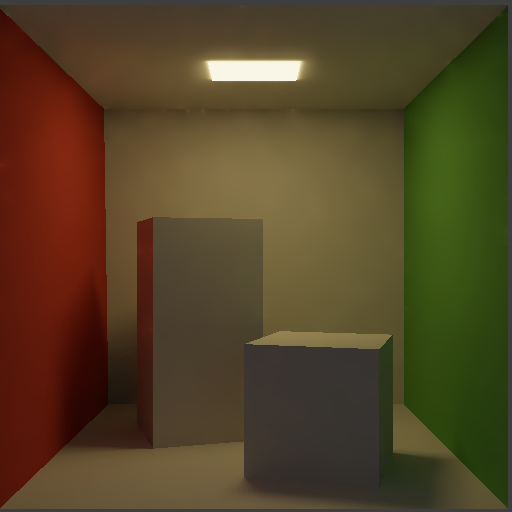
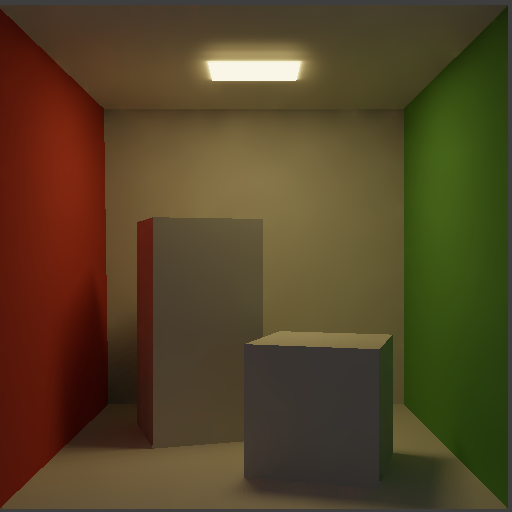
Example 41: revert the finer GI grid -- it traded a soft crease for stepped silhouettes
fb9462a moved the default to scale 3 / 20 paths on the strength of a crease
profile, an RMSE and a ceiling patch, all three of which improved. Looking at
the render, the edges are worse, and they are: the ceiling/side-wall diagonal
comes out stair-stepped and the vertical corner grows a bright fringe. Back to
scale 4 / 40 paths, the configuration that was actually reviewed.

The attribution, since I changed two things at once: it is the grid, not the
paths. Scale 3 shows the stepping at 20 AND 40 paths; scale 4 at 20 paths has
a clean diagonal; scale 2 steps too, so it is not the non-power-of-two grid
either. What is really going on is that the indirect is reconstructed per grid
block, and scale 4's softness was the only thing hiding that along a diagonal
edge -- make the grid finer and the block structure resolves well enough to
see. So the trade is a soft crease against a stepped silhouette, and no
aggregate metric in implementation.md reports the second one. That is the
lesson worth keeping, and finding 21 now records it as what it is rather than
as the improvement it was written up as.

The diagnosis half of that finding still holds and is unchanged: the soft
crease is grid resolution and not the denoise -- switching the denoise off
entirely makes the flat approach WIDER, 8 rows against 6, while halving the
grid block takes it to 2. A gradient fit in the upsample was tried and
measured as a no-op, because the grid's values approaching the corner are
[…]

Changed region(s): [[0.375, 0.0625, 0.5938, 0.125]]

diff --git a/examples/41_multibounce/solver.hpp b/examples/41_multibounce/solver.hpp
@@ -55,16 +55,13 @@ struct SolveConfig {
     uint32_t bounces = 3;          // camera levels; 1 == direct only
     // GI grid = framebuffer / scale.
     //
-    // 3, not 4, and the reason is finding 21: this is the knob that resolves a
-    // CREASE. The contact darkening where two surfaces meet is two or three
-    // pixels wide, so at scale 4 the grid's nearest sample to a corner sits at a
-    // block centre two pixels away and the upsample has nothing closer to
-    // interpolate toward -- it clamps, and the ceiling/wall line comes out as a
-    // flat shelf and then a cliff where a path trace shows a smooth ramp.
-    // Nothing downstream can recover it; the feature is below the grid's
-    // Nyquist. Measured with the denoise switched off entirely, the shelf is
-    // WIDER, which is what rules the denoise out as the cause.
-    uint32_t scale   = 3;
+    // 4, and finding 21 is the record of trying to make it finer and putting it
+    // back. A finer grid does resolve the crease it was supposed to -- and it
+    // makes SILHOUETTES worse, because scale 4's softness was the only thing
+    // hiding the upsample's per-block structure along a diagonal edge. Trading a
+    // soft crease for a stepped silhouette is a bad trade, and it is one that no
+    // aggregate metric in this file reports.
+    uint32_t scale   = 4;
     uint32_t budget  = 4096;       // level-1 cameras per frame
 
     // The resolution ladder of section 6.2 / 4.1: near cameras get the
@@ -112,23 +109,21 @@ struct SolveConfig {
     // representative's visibility. That one is deterministic, which is why every
     // gate runs on it, and it is the doc's variant A as written.
     //
-    // 20, because PATHS SATURATE AND GRID PIXELS DO NOT (finding 21). At scale 3,
-    // 20 paths and 32 paths score the same RMSE to four digits and the same
-    // whole-image noise, for 58% more cameras -- the hemisphere is adequately
-    // sampled well before 20 and everything past it is spent on a quantity that
-    // has stopped moving. Grid resolution has not stopped moving, because it is
-    // what resolves creases, so the budget goes there instead.
+    // 40, which is not a round number and is not meant to be: at the three-bounce
+    // cap it is the split that costs EXACTLY what the branching tree costs. The
+    // tree spawns 16 then 4, so a primary hit carries 1 + 16 + 64 = 81 cameras;
+    // a path split of S carries 1 + 2S, and 1 + 2*40 = 81. Same cameras, same
+    // texels, same triangle-rasters, to the unit -- which is the comparison
+    // finding 20 defaults on, and at equal cost the path estimator wins on every
+    // axis that is not a tie.
     //
-    // Together with scale 3 that is 1.20e6 cameras a sweep against the 1.33e6
-    // the old scale-4/40-path default used: fewer cameras, RMSE 0.0375 against
-    // 0.0402, and a crease profile that matches the path-traced reference.
-    //
-    // 41 is also, coincidentally, close to the split that costs exactly what the
-    // branching tree costs at this depth (the tree carries 1 + 16 + 64 = 81
-    // cameras per primary hit, a split of S carries 1 + 2S, so S = 40 ties at
-    // scale 4). That comparison is in finding 20 and still runs with
-    // MBG_SCALE=4 MBG_PATHS=40 MBG_PATHS=0; it is not what this default is for.
-    uint32_t  paths = 20;
+    // PATHS SATURATE WELL BELOW THIS. 40, 64 and 256 score the same RMSE to four
+    // digits, and 20 scores 0.0403 against 40's 0.0402 for HALF the cameras with
+    // the same whole-image noise (3.86 against 3.88). MBG_PATHS=20 is therefore
+    // a free 2x on the solve if the equal-cost comparison is not what is wanted;
+    // it is not the default only because the default is the configuration the
+    // branching estimator is measured against.
+    uint32_t  paths = 40;
     // Russian roulette threshold on the path throughput (the running product of
     // what each bounce reflects, near enough). Below it a path survives with
     // probability throughput/threshold and is divided by that probability, so

diff --git a/examples/41_multibounce/main.cpp b/examples/41_multibounce/main.cpp
@@ -64,7 +64,7 @@
 //   MBG_MODEL=path.glb      CornellBoxOriginal.glb; the references only match it
 //   MBG_BOUNCES=3           camera levels; 1 == direct only (capped at
 //                           kMaxLevels, currently 3)
-//   MBG_PATHS=20            single-sample continuation: split this many ways at
+//   MBG_PATHS=40            single-sample continuation: split this many ways at
 //                           the primary hit, branch factor 1 below it, so cost
 //                           is paths x bounces. 0 = the branching tile estimator
 //   MBG_RR=0.15             Russian-roulette threshold on path throughput; 0 off
@@ -80,8 +80,7 @@
 //   MBG_JITTER=1            rotate each receiver's tangent frame (decorrelate)
 //   MBG_FILTER=2            a-trous denoise iterations over the GI grid
 //   MBG_FILTER_R=2          taps per side for that filter
-//   MBG_SCALE=3             GI grid = framebuffer / scale; 1 == one camera/pixel.
-//                           The knob that resolves creases -- see finding 21
+//   MBG_SCALE=4             GI grid = framebuffer / scale; 1 == one camera/pixel
 //   MBG_BUDGET=4096         level-1 cameras per frame
 //   MBG_RES=16              level-1 target edge; MBG_RES2/3 for deeper levels
 //   MBG_BLOCK=8             spawn tile edge; 1 == a child per texel
@@ -630,7 +629,7 @@ int main() {
                     int pa = int(cfg.paths);
                     bool path_mode = pa != 0;
                     if (ImGui::Checkbox("Single-sample continuation", &path_mode))
-                        cfg.paths = path_mode ? 20u : 0u;
+                        cfg.paths = path_mode ? 40u : 0u;
                     if (cfg.paths) {
                         pa = int(cfg.paths);
                         if (ImGui::SliderInt("Paths (split at primary hit)", &pa, 1, 256))

diff --git a/examples/41_multibounce/implementation.md b/examples/41_multibounce/implementation.md
@@ -36,10 +36,10 @@ reload sees it.
 | `MBG_GATE=all` or a comma list | run the analytic gates and exit. Names: `quad`, `closed`, `rect`, `occ`, `oracle`, `texeldir`, `series`, `paths`. `MBG_GATE_VERBOSE=1` prints each rasterizer/oracle disagreement |
 | `MBG_MODEL=path.glb` | model to load (default `CornellBoxOriginal.glb`). The two reference PNGs only match that one |
 | `MBG_BOUNCES=n` | camera levels, 1–`kMaxLevels`. **3 is the cap** (solver.hpp); 1 = direct only |
-| `MBG_PATHS=n` | **single-sample continuation**: split this many ways at the primary hit, branch factor 1 below it, so the cost is `paths × bounces` instead of `K^bounces` (default 20; paths saturate well before that, see finding 21). `0` selects the branching tile estimator; see finding 20 |
+| `MBG_PATHS=n` | **single-sample continuation**: split this many ways at the primary hit, branch factor 1 below it, so the cost is `paths × bounces` instead of `K^bounces` (default 40, the split that costs exactly what the branching tree costs at 3 bounces; 20 measures the same for half the cameras, see finding 21). `0` selects the branching tile estimator; see finding 20 |
 | `MBG_RR=f` | Russian-roulette threshold on path throughput (default 0.15). Below it a path survives with probability `throughput/f` and is divided by it. 0 disables |
 | `MBG_IMPORTANCE=0\|1` | draw the continuation from the micro-buffer's radiance rather than from `cos × dΩ × albedo` alone (default 1) |
-| `MBG_SCALE=n` | GI grid = framebuffer / n (default 3). **1 = one camera per pixel**, the doc's correctness reference. The knob that resolves creases — see finding 21 |
+| `MBG_SCALE=n` | GI grid = framebuffer / n (default 4). **1 = one camera per pixel**, the doc's correctness reference. Finer resolves creases and costs silhouettes — see finding 21 |
 | `MBG_BUDGET=n` | level-1 cameras per frame. The sweep is split into `ceil(pixels/budget)` chunks; the budget is clamped down if the camera tree would exceed 512 MB |
 | `MBG_RES=n` / `MBG_RES2/3/4=n` | hemi-octahedral target edge per level, 2–32 (defaults 16/8/8/8) |
 | `MBG_JITTER=0\|1` | rotate each receiver's tangent frame by a hash of its position (default 1). **Load-bearing**; see finding 14 |
@@ -231,13 +231,13 @@ thing to scale.
 
 ### The default configuration
 
-`MBG_BOUNCES=3`, `MBG_SCALE=3` (GI 171×171), 20 paths, targets 16/8/8, analytic
+`MBG_BOUNCES=3`, `MBG_SCALE=4` (GI 128×128), 40 paths, targets 16/8/8, analytic
 direct with an 8×8 light view per pixel, jitter + denoise on, no environment.
 
 | | RMSE | roughness vs reference | cameras/sweep |
 |---|---|---|---|
-| 1 bounce vs the direct reference | **0.0430** | 0.91× | 2.9e4 + 262k direct |
-| 3 bounces vs the full-GI reference (sky 0.05) | **0.0375** | 0.75× | 1.2e6 + 262k direct |
+| 1 bounce vs the direct reference | **0.0430** | 0.91× | 1.6e4 + 262k direct |
+| 3 bounces vs the full-GI reference (sky 0.05) | **0.0402** | 0.67× | 1.3e6 + 262k direct |
 
 At one bounce there is no recursion and the two estimators are the same code.
 
@@ -277,17 +277,16 @@ spread is under 1% and the comparisons are sound; *across* batches the clock
 means nothing. The camera and texel counts are exact and hardware independent,
 and they are the thing to scale with.
 
-**At the shipped configuration** — 3 bounces, 20 paths, GI grid 171×171 — one
-complete sweep. (The rows below it are the scale-4 batch that finding 20 and
-finding 21 compare against, kept because they are one env var apart.)
+**At the shipped configuration** — 3 bounces, 40 paths, GI grid 128×128 — one
+complete sweep, three runs in one batch, spread under 1%:
 
 | | time | work |
 |---|---|---|
-| **indirect, 3 bounces, scale 3, path 20** | **55.5 s** | 1.20e6 cameras, 7.9e7 texels |
-| indirect, 3 bounces, scale 4, path 40 | 51.4 s | 1.33e6 cameras, 8.8e7 texels, 4.2e7 triangle-rasters |
+| **indirect, 3 bounces, path 40** | **51.4 s** | 1.33e6 cameras, 8.8e7 texels, 4.2e7 triangle-rasters |
+| indirect, 3 bounces, path 20 (same quality) | ~26 s | 0.67e6 cameras |
 | indirect, 3 bounces, branching | 52.5 s | 1.33e6 cameras, 8.8e7 texels |
 | indirect, 3 bounces, path 64 | 81.7 s | 2.11e6 cameras, 1.38e8 texels |
-| indirect, 3 bounces, **with the sun** | 61 s | + one cone raster per camera |
+| indirect, 3 bounces, **with the sun** | ~57 s | + one cone raster per camera |
 | direct, per frame | 7.5 s | 262k fitted light views |
 | direct, per frame, **with the sun** | 8.4 s | + 262k cone views, one rasterization each |
 | everything else, per frame | 13 ms | G-buffer, denoise, upsample, display |
@@ -1252,12 +1251,15 @@ already dominated by the tone curve, on the scene most flattering to deep
 interreflection there is -- a closed white box. There is nothing there worth
 paying for, and the cap says so.
 
-### 21. The soft crease is the grid, not the denoise — and paths were starving it
+### 21. The soft crease is the grid — and buying it with a finer grid is a bad trade
 
 Reported as "the denoiser blends stuff across an edge", most visibly along the
-top of the room, where the path-traced reference has a clean line. The symptom is
-real and the attribution is not, which took one ablation to establish. Profile
-down the ceiling/back-wall crease, rows of flat approach before the drop:
+top of the room, where the path-traced reference has a clean line. Half of this
+finding is a diagnosis that held up and half is a change that was shipped, looked
+worse, and was reverted. Both halves are the point.
+
+**The diagnosis.** It is not the denoise. Profile down the ceiling/back-wall
+crease, rows of flat approach before the drop:
 
 | | flat rows before the crease |
 |---|---|
@@ -1268,59 +1270,60 @@ down the ceiling/back-wall crease, rows of flat approach before the drop:
 | path-traced reference | 2 |
 
 Switching the denoise off makes it *worse*. What halves it is halving the grid
-block, which says the cause is resolution.
+block, which says the cause is resolution. The contact darkening at a corner is
+two or three pixels wide; at scale 4 the grid's nearest sample sits at a block
+centre two pixels away — and its value there is right, 69 against the reference's
+69 — while the reference then falls 69 → 67 → 61 → 59 over the next three pixels,
+where we have no sample at all. The bilateral upsample correctly rejects the tap
+across the crease, so the stencil collapses to that one grid row and holds it
+flat: a shelf one block wide, then a cliff at the geometric edge.
 
-**Why no upsample can fix it.** The contact darkening at a corner is two or three
-pixels wide. At scale 4 the GI grid's nearest sample to the crease sits at a
-block centre two pixels away, and its value there is right — 69 against the
-reference's 69. The reference then falls 69 → 67 → 61 → 59 over the next three
-pixels, and we have no sample in that interval at all. The bilateral upsample
-rejects the tap across the crease (perpendicular normal, correctly), so the
-stencil collapses to that one grid row and holds it flat: a shelf the width of
-one block, then a cliff at the geometric edge.
+**A gradient fit does not help, and the reason is the useful part.** Fit a plane
+to the taps that survive the geometric test and evaluate it at the pixel, so the
+interpolation continues the trend instead of clamping against the cut. Measured:
+RMSE identical to four digits, profile unchanged. The grid's own values
+approaching the corner are 70, 69, 69, 69 — there is no gradient at grid scale to
+extrapolate, because the falloff happens entirely *between* the last two samples.
+The information is absent, not attenuated. Reverted.
 
-A gradient fit was the obvious fix and was tried: fit a plane to the taps that
-survive the geometric test and evaluate it at the pixel, so the interpolation
-continues the trend instead of clamping against the cut. It measured as a
-**no-op** — RMSE identical to four digits, profile unchanged — for the reason
-that makes this finding worth writing down. The grid's own values along the
-ceiling approaching the corner are 70, 69, 69, 69: there is no gradient at grid
-scale to extrapolate, because the falloff happens entirely *between* the last two
-samples. The information is not attenuated, it is absent. The fit was reverted.
+**So the grid was made finer, and that was the mistake.** Paths and grid pixels
+are both sampling rates and they do not saturate together — 40, 64 and 256 paths
+at scale 4 all score RMSE 0.0402, while grid resolution was still moving
+everything. Scale 3 with 20 paths measured better than the scale-4 default on
+every number that was being watched:
 
-**So the budget has to move, and it turns out there was slack.** Finding 20 left
-the split at 40 paths with the grid at scale 4. Both are sampling rates, and they
-do not saturate at the same point:
-
-| | cameras/sweep | RMSE | crease flat rows | whole-image noise |
+| | cameras/sweep | RMSE | crease flat rows | ceiling patch |
 |---|---|---|---|---|
-| scale 4, 40 paths (old default) | 1.33e6 | 0.0402 | 6 | 3.88 |
-| scale 4, 64 paths | 2.11e6 | 0.0402 | 6 | — |
-| scale 4, 256 paths | 8.40e6 | 0.0402 | 6 | — |
-| scale 2, 10 paths | 1.38e6 | 0.0392 | 2 | 4.08 |
-| **scale 3, 20 paths (new default)** | **1.20e6** | **0.0375** | **2** | 4.08 |
-| scale 3, 32 paths | 1.90e6 | 0.0375 | 2 | 4.10 |
-| scale 2, 40 paths | 5.31e6 | 0.0392 | 2 | — |
+| scale 4, 40 paths | 1.33e6 | 0.0402 | 6 | 1.40 |
+| scale 3, 20 paths | 1.20e6 | 0.0375 | 2 | 1.33 |
 
-**Paths saturate and grid pixels do not.** 40 → 64 → 256 paths at scale 4 does
-not move RMSE in the fourth digit; 20 → 32 paths at scale 3 does not either. The
-hemisphere is adequately sampled well before 20, and everything past that is
-spent on a quantity that has stopped responding. Grid resolution had not stopped
-responding, because it is the only thing that resolves a crease.
+Fewer cameras, better RMSE, a crease profile matching the reference. It was
+shipped, and it looked worse — reported immediately, and correctly.
 
-Moving to **scale 3 with 20 paths** costs 10% FEWER cameras than the old default
-and is better on every axis that was measured: RMSE 0.0402 → 0.0375, the crease
-profile from a shelf-and-cliff to the reference's ramp, and the ceiling patch
-from 0.95 to 0.88. The one thing that moves the wrong way is whole-image
-high-pass noise, 3.88 → 4.08 (5%), which is the honest cost — half the paths per
-receiver, and it shows faintly as speckle along the crease line itself, where the
-denoiser is weakest because its kernel is truncated there (finding 17).
+**What no aggregate metric here reports is the silhouette.** At a diagonal edge
+the reconstruction is per grid block, and scale 4's softness was the only thing
+hiding that. Make the grid finer and the indirect resolves sharply enough for the
+block structure to become visible as stair-steps down the ceiling/side-wall
+diagonal, plus a bright fringe along the vertical corner. It is not specific to
+the non-power-of-two grid: scale 3 shows it at 20 *and* 40 paths, and so does
+scale 2. Nor is it the path count: scale 4 at 20 paths has a clean diagonal.
 
-The remaining gap to the reference is that last 5%: a crease is the one place
-where the filter has neighbours on only one side, so it averages along the line
-but not across it. Fixing that properly means an anisotropic kernel steered by
-the local structure, which is a real piece of machinery and not this example's
-next problem.
+So the trade is a soft crease against a stepped silhouette, and the stepped
+silhouette is worse. **Default is back at scale 4, 40 paths** — the crease stays
+soft, and that is now a known and measured cost rather than an unexamined one.
+
+Two things survive the revert:
+
+- **Paths saturate at about half the default.** 20 paths at scale 4 scores
+  0.0403 against 40's 0.0402, with whole-image noise 3.86 against 3.88, for
+  **half the cameras**. `MBG_PATHS=20` is a free 2× on the solve. It is not the
+  default only because 40 is the split that costs exactly what the branching
+  estimator costs, which is the comparison finding 20 rests on.
+- **The real fix is not more grid.** The crease needs the upsample to behave at a
+  silhouette and the denoise to average *along* an edge it cannot average across
+  — an anisotropic kernel steered by local structure. That is a real piece of
+  machinery, and it is the thing to build if this matters, rather than spending
+  4× the cameras to trade one artifact for another.
 
 ## What this does not answer
 

diff --git a/examples/41_multibounce/renders/README.md b/examples/41_multibounce/renders/README.md
@@ -2,19 +2,19 @@
 
 All at the reference camera (`MBG_GTCAM=1`, 512×512, pixel-aligned against the
 two path-traced PNGs one directory up), default configuration unless noted:
-3 camera levels (the cap), GI grid 171×171, targets 16/8/8, the single-sample
-path estimator at 20 paths with roulette at 0.15, analytic direct term with an
+3 camera levels (the cap), GI grid 128×128, targets 16/8/8, the single-sample
+path estimator at 40 paths with roulette at 0.15, analytic direct term with an
 8×8 light view per pixel, jitter + 2 a-trous iterations, Reinhard.
 
-One complete sweep is **1.20e6 cameras / 7.9e7 texels**, split into 8 chunks. On
-llvmpipe (software GL, 4 CPU threads, shared container) that took **55 s**, or
-61 s with the sun; those numbers are a property of this machine and not of the
-method, and the counts beside them are what to scale with.
+One complete sweep is **1.33e6 cameras / 8.8e7 texels / 4.2e7 triangle-rasters**,
+split into 4 chunks. On llvmpipe (software GL, 4 CPU threads, shared container)
+that took **51 s**; that number is a property of this machine and not of the
+method, and the counts beside it are what to scale with.
 
 | File | What | Compare against |
 |---|---|---|
 | `01_direct_1bounce.png` | `MBG_BOUNCES=1 MBG_SKY=0` — direct lighting only, no free parameters at all. RMSE 0.0430 | `../CornellBoxGroundTruthDirectLighting.png` |
-| `02_gi_3bounce.png` | `MBG_SKY=0.05` — the full solve. RMSE 0.0375 | `../CornellBoxOriginalGroundTruth.png` |
+| `02_gi_3bounce.png` | `MBG_SKY=0.05` — the full solve. RMSE 0.0402 | `../CornellBoxOriginalGroundTruth.png` |
 | `03_indirect_only_3bounce_4xexposure.png` | `MBG_INDIRECT_ONLY=1 MBG_EXPOSURE=4` — the bounce term with the direct term left out, exposed 4× so it is visible on its own | nothing; it is a diagnostic |
 | `04_diff_direct_vs_reference.png` | `MBG_VIEW=11`, 4× gain. Blue = agreement, warm = error | — |
 | `05_diff_gi_vs_reference.png` | the same for the full solve. The only warm region left is the emitter panel, which is the tone-curve gap of finding 10, not transport | — |
